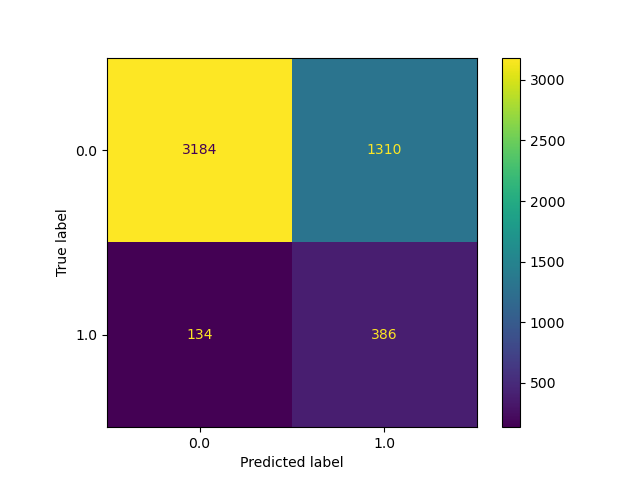
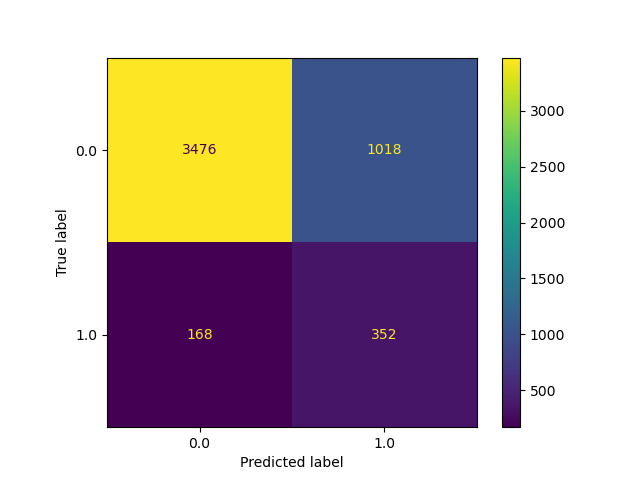
switched from cpu to gpu

diff --git a/src/graph_neural_nets.py b/src/graph_neural_nets.py
@@ -3,13 +3,14 @@ import torch.nn.functional as F
 from torch.nn import Sequential, Linear, BatchNorm1d, Dropout,LeakyReLU
 from torch_geometric.nn import GINEConv
 
-def train(model, loader, class_weights, lr, weight_decay):
+def train(model, loader, class_weights, lr, weight_decay, device):
         model.train()
         optimizer = torch.optim.Adam(model.parameters(), lr=lr, weight_decay=weight_decay)
-        criterion = torch.nn.CrossEntropyLoss(weight=torch.Tensor(class_weights))
+        criterion = torch.nn.CrossEntropyLoss(weight=torch.Tensor(class_weights).to(device))
         loss = 0
         total_num_instances = 0
         for data in loader:
+            data = data.to(device)
             optimizer.zero_grad()  # Clear gradients
             _, out = model(data.x, data.edge_index, data.edge_attr)  # Perform a forward pass
             batch_loss = criterion(out, data.y.T.long())  # Compute loss function
@@ -21,15 +22,16 @@ def train(model, loader, class_weights, lr, weight_decay):
         return loss
 
 @torch.no_grad()
-def test(model, loader):
+def test(model, loader, device):
     model.eval()
     predictions = []
     true_labels = []
     for data in loader:
+        data = data.to(device)
         _, out = model(data.x, data.edge_index, data.edge_attr)  # Perform a forward pass
         predictions.append(out.argmax(dim=1))   # Store the class with the highest probability for each data point
         true_labels.append(data.y)
-    pred, true = torch.cat(predictions, dim=0).numpy(), torch.cat(true_labels, dim=0).numpy()
+    pred, true = torch.cat(predictions, dim=0).cpu().numpy(), torch.cat(true_labels, dim=0).cpu().numpy()
     return pred, true
 
 
@@ -39,22 +41,23 @@ class GIN(torch.nn.Module):
         self.conv1 = GINEConv(Sequential(Linear(in_dim, h_dim),
                                         BatchNorm1d(h_dim, h_dim),
                                         LeakyReLU(),
-                                        Dropout(p=0.2)
+                                        Dropout(p=0.3)
                                         ), edge_dim=4)
         self.conv2 = GINEConv(Sequential(Linear(h_dim, h_dim),
                                         BatchNorm1d(h_dim, h_dim),
                                         LeakyReLU(),
-                                        Dropout(p=0.2)
+                                        Dropout(p=0.3)
                                         ), edge_dim=4)
         self.conv3 = GINEConv(Sequential(Linear(h_dim, h_dim),
                                         BatchNorm1d(h_dim, h_dim),
                                         LeakyReLU(),
-                                        Dropout(p=0.2)
+                                        Dropout(p=0.3)
                                         ), edge_dim=4)
         self.lin1 = Linear(h_dim*3, h_dim*3)
         self.lin2 = Linear(h_dim*3, out_dim)
 
     def forward(self, x, edge_index, edge_attr):
+
         # Node embeddings
         h1 = self.conv1(x, edge_index, edge_attr)
         h2 = self.conv2(h1, edge_index, edge_attr)
@@ -64,7 +67,6 @@ class GIN(torch.nn.Module):
         h = torch.cat((h1, h2, h3), dim=1)
 
         # h_g=torch.nn.global_pooling(h[0:45])
-
 
         # Classify
         h = self.lin1(h)

diff --git a/som_gnn.py b/som_gnn.py
@@ -1,16 +1,22 @@
 import matplotlib.pyplot as plt
 import numpy as np
 import random
-import torch
-from torch_geometric.loader import DataLoader
+from ray import tune
+from ray.tune import CLIReporter
+from ray.tune.schedulers import ASHAScheduler
 from sklearn.model_selection import train_test_split
 from sklearn.metrics import matthews_corrcoef, accuracy_score, \
     jaccard_score, precision_score, recall_score, auc, \
     roc_curve, ConfusionMatrixDisplay, PrecisionRecallDisplay
 from sklearn.utils.class_weight import compute_class_weight
+import torch
+from torch_geometric.loader import DataLoader
+
 from src.process_input_data import process_data
 from src.pyg_dataset_creator import SOM
 from src.graph_neural_nets import GIN, train, test
+
+
 
 
 def main():
@@ -25,8 +31,10 @@ def main():
         --------------------------------------
     """
 
+    device = torch.device('cuda' if torch.cuda.is_available() else 'cpu')
+
     # Process SDF input data to create PyTorch Geometric custom dataset
-    process_data(path='data/dataset.sdf')
+    #process_data(path='data/dataset.sdf')
 
     # Create/Load Custom PyTorch Geometric Dataset
     dataset = SOM(root='data')
@@ -63,14 +71,12 @@ def main():
     --------------------------------------
     """
 
-    device = torch.device('cuda' if torch.cuda.is_available() else 'cpu')
-
     gin_model = GIN(in_dim=dataset.num_features, h_dim=128, out_dim=dataset.num_classes).to(device)
     print(gin_model)
 
     for epoch in range(40):
-        training_loss = train(gin_model, train_loader, class_weights, lr=1e-3, weight_decay=1e-4)
-        val_pred, val_true = test(gin_model, val_loader)
+        training_loss = train(gin_model, train_loader, class_weights, lr=1e-3, weight_decay=1e-4, device=device)
+        val_pred, val_true = test(gin_model, val_loader, device=device)
         val_mcc = matthews_corrcoef(val_true, val_pred)
         val_acc = accuracy_score(val_true, val_pred)
         val_jacc = jaccard_score(val_true, val_pred)
